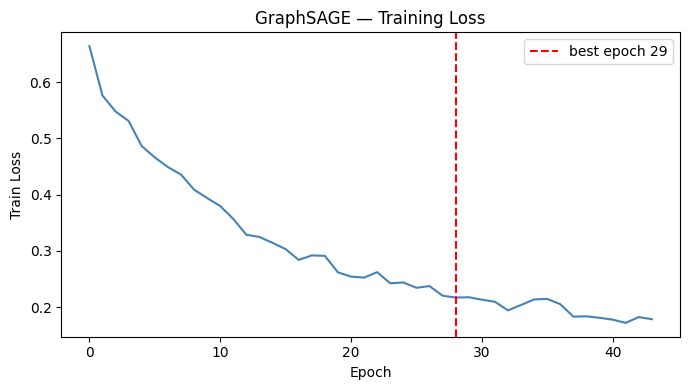
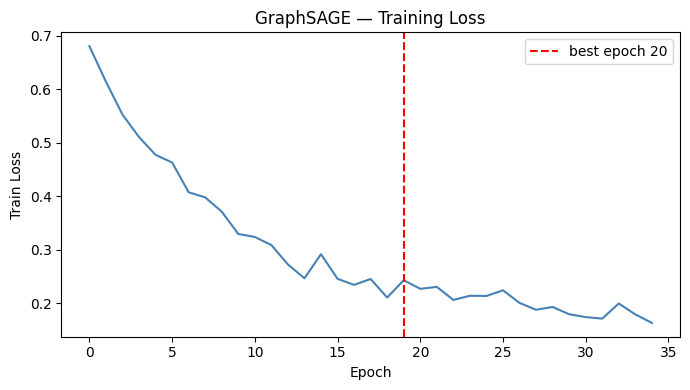
feat: GraphSAGE inference CLI + richer graph representation
Two improvements:

1. predict.py --model graphsage
   Adds the fourth inference mode: runs angr CFGFast on-the-fly,
   builds the function call graph, normalises features with the
   saved scaler, and classifies the binary as safe/vulnerable with
   confidence. Output includes node and edge counts.

2. Upgraded graph representation (graph_builder.py)
   Library (PLT) function nodes are now added to each graph:
     - User function nodes: 15 angr features + is_library=0, is_unsafe_lib=0
     - Library nodes: zeros + is_library=1, is_unsafe_lib={0,1}
   User->library call edges are included so the GNN sees structural
   patterns like main->vulnerable->strcpy rather than encoding library
   calls only as a node feature.

   Result: avg edges 1.9 -> 4.0 per graph; model converges faster
   (best epoch 20 vs 29) with same test accuracy (95.4%) and
   marginally higher ROC-AUC (0.9891 -> 0.9894).

   GRAPH_NODE_FEATURES = 17 (len(FEATURES) + 2) exported from
   graph_builder for use by the trainer and inference path.

diff --git a/analysis/static/graph_builder.py b/analysis/static/graph_builder.py
@@ -1,10 +1,19 @@
 """
 Build binary-level function call graphs (FCG) from ELF binaries using angr.
 
-Each binary → one PyTorch Geometric Data object:
-    x          : [N, 15]  node features (per-function angr features)
-    edge_index : [2, E]   directed call edges (caller → callee)
-    y          : [1]      binary-level vulnerability label (0=safe, 1=vuln)
+Graph representation (upgraded):
+    User function nodes  [N_user]: 15 angr features + is_library=0, is_unsafe_lib=0
+    Library function nodes [N_lib]: zeros + is_library=1, is_unsafe_lib={0,1}
+
+    Directed edges:
+        user  -> user     inter-function calls within user code
+        user  -> library  calls to imported PLT functions (strcpy, malloc, ...)
+
+    Adding library nodes exposes structural patterns like
+        main -> vulnerable -> strcpy
+    as graph topology rather than encoding it only as a node feature.
+
+GRAPH_NODE_FEATURES = len(FEATURES) + 2  (exported for model/trainer use)
 """
 
 import logging
@@ -18,17 +27,22 @@ import angr
 import torch
 from torch_geometric.data import Data
 
-from analysis.static.angr_engine import extract_features_from_project, FEATURES
+from analysis.static.angr_engine import extract_features_from_project, FEATURES, UNSAFE_FUNCS
+
+# Node feature dimension: 15 per-function angr features + 2 node-type flags
+GRAPH_NODE_FEATURES = len(FEATURES) + 2
 
 
 def build_binary_graph(binary_path, label):
     """
     Build a PyG Data object for one binary.
 
-    Loads the binary with angr, runs CFGFast, extracts per-function node
-    features, and builds directed edges from angr's call graph.
+    User-defined functions become nodes with 15 angr features.
+    Called PLT library functions are added as extra nodes with zero CFG
+    features and two type flags (is_library=1, is_unsafe_lib={0,1}).
+    Edges cover both user->user and user->library call relationships.
 
-    Returns None if the binary cannot be loaded or yields no user functions.
+    Returns None if angr cannot load the binary or no user functions exist.
     """
     try:
         proj = angr.Project(str(binary_path), auto_load_libs=False)
@@ -40,22 +54,61 @@ def build_binary_graph(binary_path, label):
     if not func_features:
         return None
 
-    # Map function address → node index (avoids name-collision issues)
+    # User function address -> node index  (0 .. N_user-1)
     addr_to_idx = {f["addr"]: i for i, f in enumerate(func_features)}
 
-    # Node feature matrix [N, len(FEATURES)]
-    x = torch.tensor(
-        [[f[feat] for feat in FEATURES] for f in func_features],
-        dtype=torch.float,
-    )
+    # PLT address -> symbol name
+    plt_name_map = {
+        addr: func.name
+        for addr, func in proj.kb.functions.items()
+        if func.is_plt and func.name
+    }
 
-    # Directed call edges from angr's call graph (caller → callee)
+    # Discover library function nodes that user functions actually call.
+    # lib_addr -> node index  (N_user .. N_user+N_lib-1)
+    lib_addr_to_idx = {}
+    lib_nodes = []  # (name, is_unsafe)
+
+    try:
+        for src_addr, dst_addr in proj.kb.callgraph.edges():
+            if src_addr not in addr_to_idx:
+                continue
+            if dst_addr in addr_to_idx or dst_addr in lib_addr_to_idx:
+                continue
+            lib_name = plt_name_map.get(dst_addr)
+            if lib_name is None:
+                continue
+            lib_addr_to_idx[dst_addr] = len(addr_to_idx) + len(lib_nodes)
+            lib_nodes.append((lib_name, lib_name in UNSAFE_FUNCS))
+    except Exception:
+        pass
+
+    # ── Node feature matrix [N_user + N_lib, GRAPH_NODE_FEATURES] ────────────
+    N = len(func_features) + len(lib_nodes)
+    x = torch.zeros(N, GRAPH_NODE_FEATURES, dtype=torch.float)
+
+    for i, f in enumerate(func_features):
+        for j, feat_name in enumerate(FEATURES):
+            x[i, j] = float(f[feat_name])
+        # x[i, -2] = 0  (is_library)
+        # x[i, -1] = 0  (is_unsafe_lib)
+
+    for i, (lib_name, is_unsafe) in enumerate(lib_nodes):
+        idx = len(func_features) + i
+        x[idx, -2] = 1.0             # is_library
+        x[idx, -1] = float(is_unsafe)  # is_unsafe_lib
+
+    # ── Directed call edges (user->user and user->library) ────────────────────
     edge_src, edge_dst = [], []
     try:
         for src_addr, dst_addr in proj.kb.callgraph.edges():
             si = addr_to_idx.get(src_addr)
+            if si is None:
+                continue
             di = addr_to_idx.get(dst_addr)
-            if si is not None and di is not None and si != di:
+            if di is None:
+                di = lib_addr_to_idx.get(dst_addr)
+            if di is not None and si != di:
                 edge_src.append(si)
                 edge_dst.append(di)
     except Exception:

diff --git a/predict.py b/predict.py
@@ -182,6 +182,72 @@ def predict_angr(binary_path: str):
     console.print(f"\n[{color}]{vuln_count}/{total} function(s) flagged as vulnerable.[/{color}]")
 
 
+# ── GraphSAGE GNN ─────────────────────────────────────────────────────────────
+
+def predict_graphsage(binary_path: str):
+    model_path  = MODELS_DIR / "graphsage.pt"
+    scaler_path = MODELS_DIR / "graphsage_scaler.pt"
+
+    for p, name in [(model_path, "graphsage.pt"), (scaler_path, "graphsage_scaler.pt")]:
+        if not p.exists():
+            console.print(f"[red]{name} not found.[/red]")
+            console.print("Run: [bold]python scripts/build_graphs.py[/bold]")
+            console.print("Then: [bold]python ml/vuln_detection/gstrain.py[/bold]")
+            sys.exit(1)
+
+    try:
+        import torch
+        import torch.nn.functional as F
+        from torch_geometric.data import Batch
+        from analysis.static.graph_builder import build_binary_graph, GRAPH_NODE_FEATURES
+        from ml.vuln_detection.graphsage import GraphSAGEClassifier
+    except ImportError as e:
+        console.print(f"[red]Import error: {e}[/red]")
+        console.print("Run: [bold]pip install angr torch torch_geometric[/bold]")
+        sys.exit(1)
+
+    console.print(f"\nAnalysing [cyan]{Path(binary_path).name}[/cyan] (GraphSAGE GNN)...")
+    console.print("[dim]Building function call graph — may take a few seconds...[/dim]")
+
+    g = build_binary_graph(binary_path, label=0)
+    if g is None:
+        console.print("[yellow]Could not build graph — binary may not be ELF or is unsupported.[/yellow]")
+        return
+
+    scaler = torch.load(scaler_path, weights_only=True)
+    g.x = (g.x - scaler["mean"]) / scaler["std"]
+
+    model = GraphSAGEClassifier(in_channels=GRAPH_NODE_FEATURES)
+    model.load_state_dict(torch.load(model_path, weights_only=True))
+    model.eval()
+
+    batch = Batch.from_data_list([g])
+    with torch.no_grad():
+        out  = model(batch.x, batch.edge_index, batch.batch)
+        prob = F.softmax(out, dim=1)
+        pred = out.argmax(dim=1).item()
+        conf = prob[0, pred].item()
+
+    color   = "red" if pred == 1 else "green"
+    verdict = f"[{color}]{'VULNERABLE' if pred == 1 else 'SAFE'}[/{color}]"
+
+    table = Table(title=f"Results: {Path(binary_path).name} (GraphSAGE GNN)", box=box.ROUNDED)
+    table.add_column("Binary",     style="cyan", no_wrap=True)
+    table.add_column("Verdict",    style="bold")
+    table.add_column("Confidence", justify="right")
+    table.add_column("Nodes",      justify="right")
+    table.add_column("Edges",      justify="right")
+    table.add_row(
+        Path(binary_path).name, verdict, f"{conf:.1%}",
+        str(g.num_nodes), str(g.num_edges),
+    )
+    console.print(table)
+    console.print(
+        f"\n[{color}]Binary classified as {'VULNERABLE' if pred==1 else 'SAFE'} "
+        f"({conf:.1%} confidence).[/{color}]"
+    )
+
+
 # ── CLI ───────────────────────────────────────────────────────────────────────
 
 def main():
@@ -193,12 +259,13 @@ Examples:
   python predict.py ai_sec_lab/binaries/arm_stack_vuln_0_x86_O0
   python predict.py path/to/binary --model ghidra
   python predict.py path/to/binary --model angr
+  python predict.py path/to/binary --model graphsage
         """,
     )
     parser.add_argument("binary", help="Path to the ELF binary to analyse")
     parser.add_argument(
         "--model",
-        choices=["tfidf", "ghidra", "angr"],
+        choices=["tfidf", "ghidra", "angr", "graphsage"],
         default="tfidf",
         help="Which model to use (default: tfidf)",
     )
@@ -212,8 +279,10 @@ Examples:
         predict_tfidf(args.binary)
     elif args.model == "ghidra":
         predict_ghidra(args.binary)
-    else:
+    elif args.model == "angr":
         predict_angr(args.binary)
+    else:
+        predict_graphsage(args.binary)
 
 
 if __name__ == "__main__":

diff --git a/ml/vuln_detection/gstrain.py b/ml/vuln_detection/gstrain.py
@@ -1,4 +1,4 @@
-"""
+"""
 Train and evaluate the GraphSAGE binary vulnerability classifier.
 
 Input : ai_sec_lab/graphs.pt        (produced by scripts/build_graphs.py)
@@ -28,6 +28,7 @@ from torch_geometric.loader import DataLoader
 
 from ml.vuln_detection.graphsage import GraphSAGEClassifier
 from analysis.static.angr_engine import FEATURES
+from analysis.static.graph_builder import GRAPH_NODE_FEATURES
 
 GRAPHS_PT  = "ai_sec_lab/graphs.pt"
 MODELS_DIR = Path("models")
@@ -90,7 +91,7 @@ test_loader  = DataLoader(test_graphs,  batch_size=BATCH_SIZE, shuffle=False)
 
 # ── Model + optimiser ─────────────────────────────────────────────────────────
 device = torch.device("cuda" if torch.cuda.is_available() else "cpu")
-model  = GraphSAGEClassifier(in_channels=len(FEATURES), hidden=HIDDEN, dropout=DROPOUT).to(device)
+model  = GraphSAGEClassifier(in_channels=GRAPH_NODE_FEATURES, hidden=HIDDEN, dropout=DROPOUT).to(device)
 optim  = torch.optim.Adam(model.parameters(), lr=LR, weight_decay=WEIGHT_DECAY)
 
 # Class weights to handle imbalance
